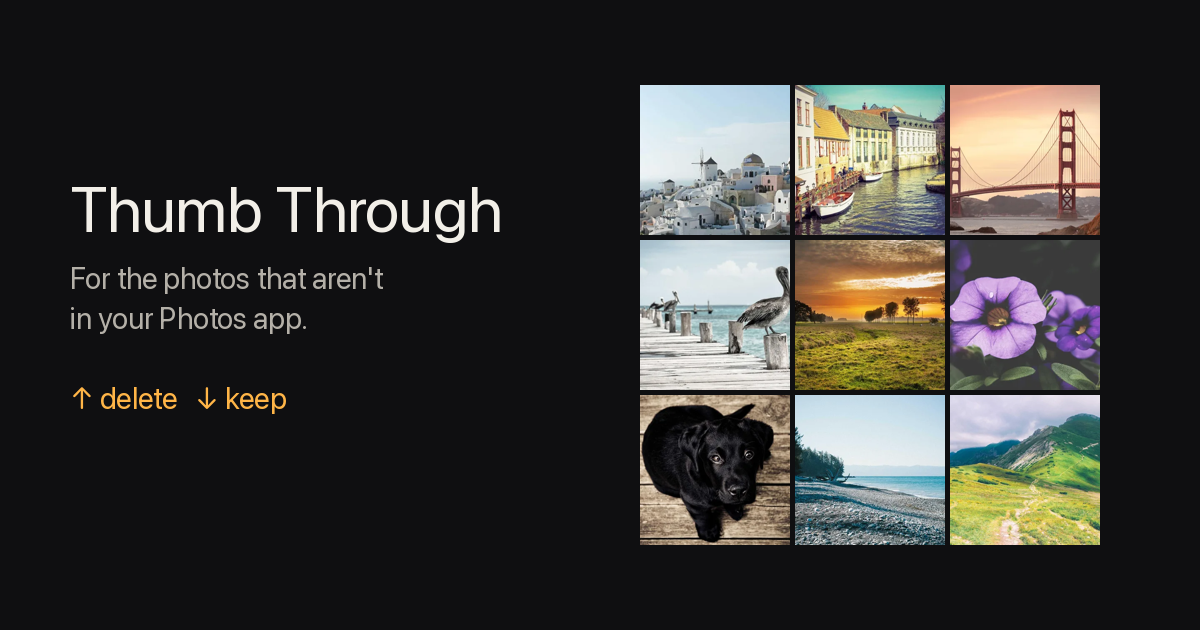
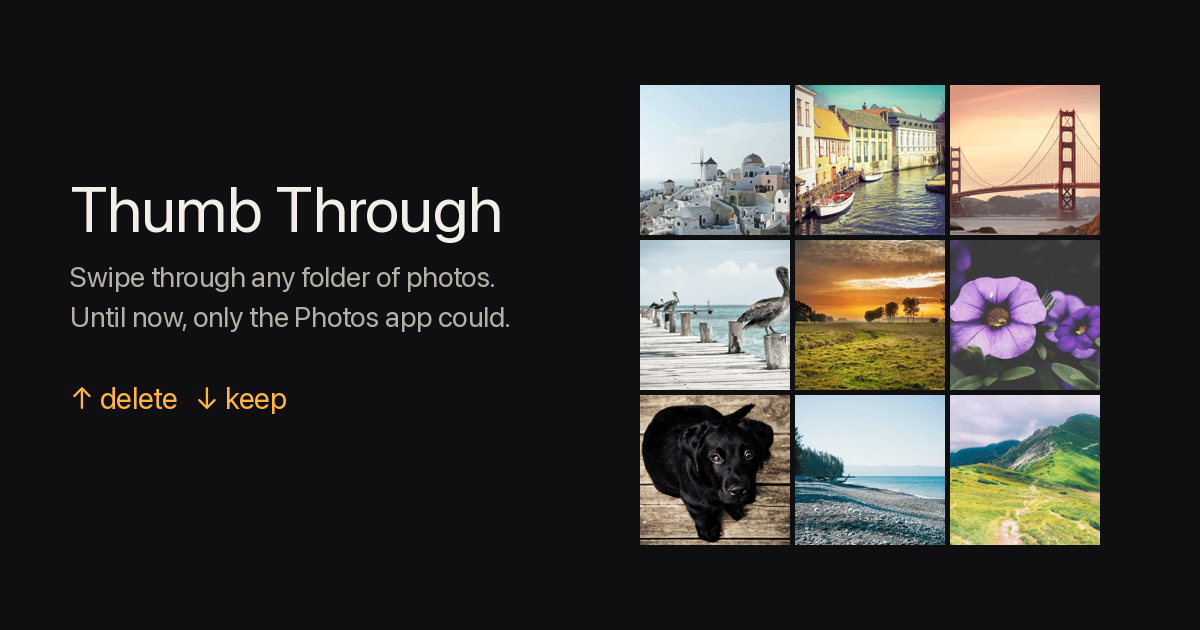
New tagline; privacy policy covers iCloud sync; support explains syncing

Changed region(s): [[0.0617, 0.4222, 0.4317, 0.5429]]

diff --git a/privacy.html b/privacy.html
@@ -4,7 +4,7 @@
 <meta charset="utf-8">
 <meta name="viewport" content="width=device-width, initial-scale=1">
 <title>Privacy · Thumb Through</title>
-<meta name="description" content="Thumb Through collects nothing. It has no account, sends nothing over the internet, and your photos never leave your device.">
+<meta name="description" content="Thumb Through collects nothing. It has no account, sends nothing to us, and your photos never leave your device.">
 <meta name="color-scheme" content="dark light">
 <link rel="canonical" href="https://thumbthroughapp.com/privacy.html">
 <link rel="icon" type="image/png" href="favicon.png">
@@ -19,9 +19,9 @@
 
 <main class="doc">
   <h1>Privacy</h1>
-  <p class="updated">Last updated September 30, 2026</p>
+  <p class="updated">Last updated September 30, 2026 (added iCloud sync between your devices)</p>
 
-  <p class="summary"><strong>In short:</strong> Thumb Through collects nothing. It has no account and no servers, it never connects to the internet, and your photos never leave your device.</p>
+  <p class="summary"><strong>In short:</strong> Thumb Through collects nothing. It has no account and no servers of its own, and your photos never leave the places you keep them. The little it remembers (your place in each folder and your ✓ marks) can sync between your own devices through your own iCloud.</p>
 
   <h2>Your photos</h2>
   <p>Thumb Through only opens folders you choose in the Files picker, and only while you use it. It reads the photos in that folder to show them to you. When you delete a photo it goes to Recently Deleted in the Files app, or, where the location has none (Dropbox, for one), it is deleted from that location, whose own website may keep it for a while. When you keep a photo it stays where it is, or moves to a folder you chose. Nothing is copied, uploaded or sent anywhere.</p>
@@ -34,10 +34,10 @@
     <li>which photos you marked as kept, and the history of what you deleted and kept,</li>
     <li>your settings, such as the sort order.</li>
   </ul>
-  <p>This stays on the device. It is not synced, shared or backed up anywhere by us. Deleting the app deletes it.</p>
+  <p>For folders in cloud storage (Dropbox, iCloud Drive and the like), your place, your ✓ Kept marks, a list of which photos were in the folder at your last visit (by file size and date, not the pictures), and your recent folders' names are also saved to <strong>your own iCloud account</strong>, using Apple's iCloud key-value storage, so your other devices signed in to the same account can pick up where you left off. That data goes to Apple under your iCloud account, never to us; we cannot see it. History stays on the device. Deleting the app deletes what it stored on the device.</p>
 
   <h2>Network, analytics and tracking</h2>
-  <p>None. The app makes no network requests, contains no analytics or crash-reporting software, shows no ads, and does not track you.</p>
+  <p>The app makes no network requests of its own. The only thing that travels is the iCloud sync above, which Apple's system handles on your behalf. The app contains no analytics or crash-reporting software, shows no ads, and does not track you.</p>
 
   <h2>Children</h2>
   <p>The app collects no information from anyone, including children.</p>

diff --git a/index.html b/index.html
@@ -4,13 +4,13 @@
 <meta charset="utf-8">
 <meta name="viewport" content="width=device-width, initial-scale=1">
 <title>Thumb Through: swipe through any folder of photos</title>
-<meta name="description" content="For the photos that aren't in your Photos app. Swipe through any folder in Files, Dropbox, iCloud Drive or an SD card: swipe up to delete, down to keep.">
+<meta name="description" content="Swipe through any folder of photos, one at a time: Dropbox, iCloud Drive, a camera card. Keep the good ones, clear out the rest. Until now, only the Photos app let you do that.">
 <meta name="color-scheme" content="dark light">
 <meta name="theme-color" content="#0f0f11">
 <link rel="canonical" href="https://thumbthroughapp.com/">
 <meta property="og:type" content="website">
 <meta property="og:title" content="Thumb Through: swipe through any folder of photos">
-<meta property="og:description" content="For the photos that aren't in your Photos app. Swipe up to delete, down to keep.">
+<meta property="og:description" content="Swipe through any folder of photos, one at a time. Until now, only the Photos app let you do that.">
 <meta property="og:url" content="https://thumbthroughapp.com/">
 <meta property="og:image" content="https://thumbthroughapp.com/og-image.png">
 <meta property="og:image:width" content="1200">
@@ -31,8 +31,8 @@
 <section class="hero">
   <div>
     <p class="eyebrow">For iPhone and iPad</p>
-    <h1>For the photos that <em>aren't</em> in your Photos app.</h1>
-    <p class="lede">Dropbox folders, iCloud Drive, a camera card, a pile of downloads. Thumb Through lets you go through any of them one photo at a time, the way Photos only lets you go through your library. Swipe up to delete. Swipe down to keep.</p>
+    <h1>Swipe through <em>any</em> folder of photos.</h1>
+    <p class="lede">One at a time: keep the good ones, clear out the rest. Until now, only the Photos app let you do that. Dropbox, iCloud Drive, a camera card, your downloads: open one in Files and you get one photo, then a back button. Swipe up to delete. Swipe down to keep.</p>
     <ul class="places" aria-label="Works with">
       <li>Dropbox</li><li>iCloud Drive</li><li>Google Drive</li><li>On My iPhone</li><li>SD cards</li><li>USB drives</li>
     </ul>
@@ -138,7 +138,7 @@
   <div class="card"><h3>Full screen and zoom</h3><p>Tap a photo to see it edge to edge, tap again to go back. Pinch or double-tap to check focus before you decide.</p></div>
   <div class="card"><h3>More photo, fewer buttons</h3><p>Once the swipes are second nature, hide the Delete and Keep buttons in Options and give the photo the room.</p></div>
   <div class="card"><h3>History for every folder</h3><p>See what you deleted and kept, how much space you freed, and put anything back.</p></div>
-  <div class="card"><h3>Nothing leaves your device</h3><p>No account, no uploads, no tracking. The app never touches the internet.</p></div>
+  <div class="card"><h3>Nothing comes to us</h3><p>No account, no uploads, no tracking. Your place and ✓ marks follow you between iPhone and iPad through your own iCloud.</p></div>
 </section>
 </div>
 </main>

diff --git a/support.html b/support.html
@@ -59,7 +59,9 @@
   <p>Yes. ← and → move, ⌫ deletes, K keeps, ⌘Z undoes, S shares, F is full screen (Esc goes back), N jumps to what's new, ⌘R refreshes the folder, G is the grid, H is History, R reverses the sort and ⌘O switches folder. In the grid, ⌘A selects everything and C compares the selection; in Compare, 1 to 4 keeps that photo and deletes the others.</p>
 
   <h2>Privacy</h2>
-  <p>Nothing leaves your device. See the <a href="privacy.html">privacy policy</a>.</p>
+  <p>Nothing is sent to us. Your place, ✓ marks and recent folders sync between your devices through your own iCloud. See the <a href="privacy.html">privacy policy</a>.</p>
+  <h3>Does it sync between iPhone and iPad?</h3>
+  <p>Yes, for folders in Dropbox, iCloud Drive and other cloud storage: your place, your ✓ Kept marks, what's new, and your recent folders follow you through iCloud. The first time, choose the folder once on the other device (iOS asks each device for permission); after that it picks up where you left off. Folders in On My iPhone live on one device, so they don't sync. History stays on the device where it happened.</p>
 </main>
 
 <footer><div class="wrap">
